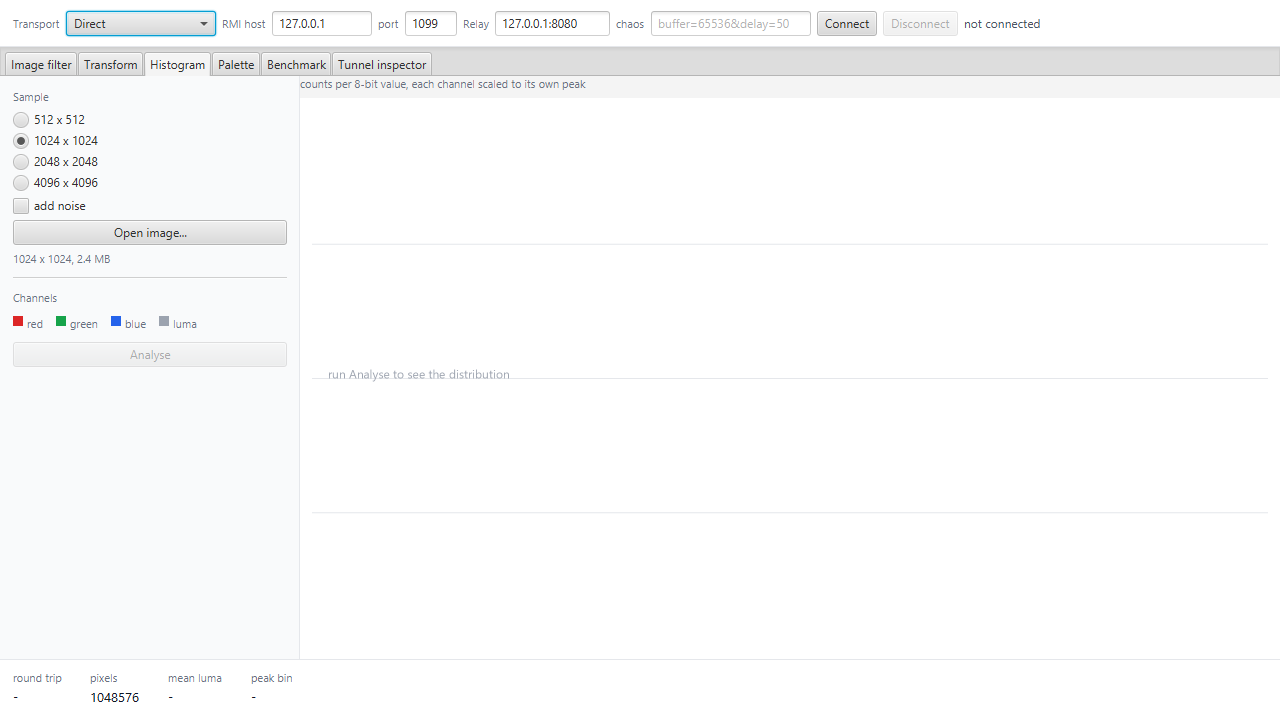
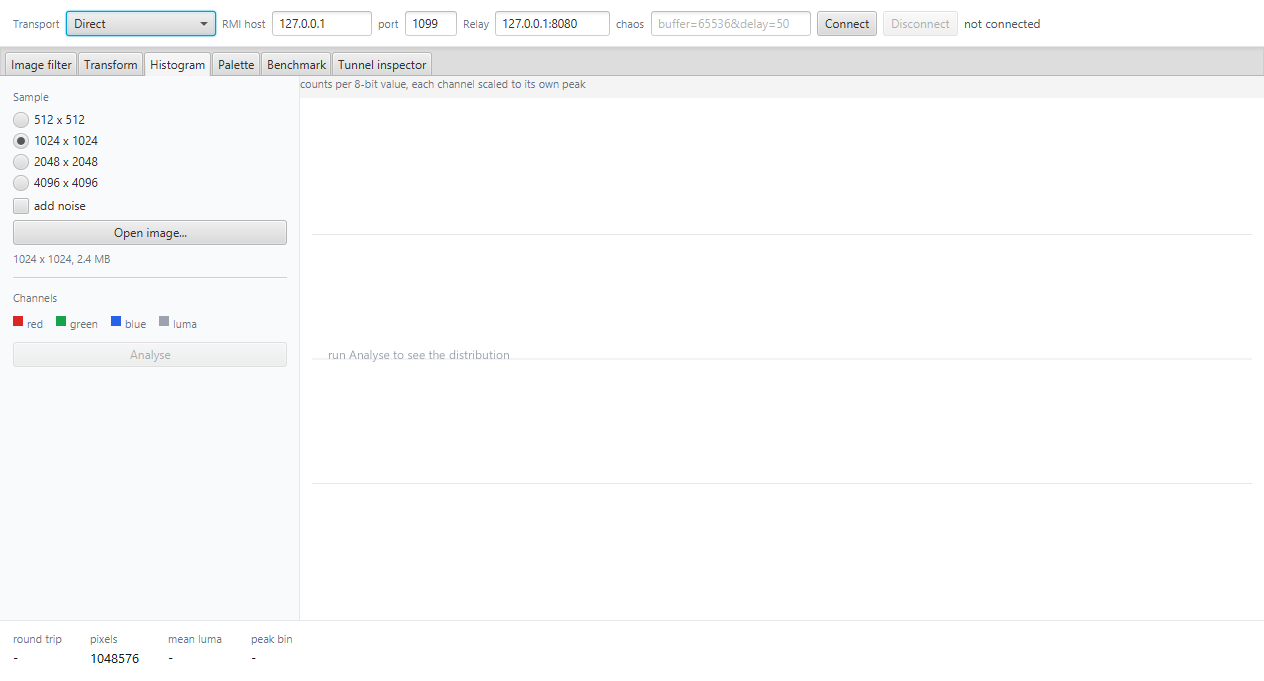
fix histogram canvas clipping; open the window no larger than the screen

diff --git a/src/main/java/lab/ui/LabApp.java b/src/main/java/lab/ui/LabApp.java
@@ -88,6 +88,22 @@ public class LabApp extends Application {
 
         stage.setTitle("RMI Tunnel Lab");
         stage.setScene(scene);
+        // Open no larger than the usable screen. At 150% scaling a 1280x720 window
+        // is wider than a 1920x1080 display in logical pixels, and the window
+        // manager then clips it rather than letting the layout shrink.
+        javafx.geometry.Rectangle2D screen = javafx.stage.Screen.getPrimary().getVisualBounds();
+        double winWidth = Math.min(1280, screen.getWidth() - 40);
+        double winHeight = Math.min(720, screen.getHeight() - 40);
+        String win = value(args, "--win");
+        if (win != null && win.contains("x")) {
+            String[] wh = win.split("x");
+            winWidth = Double.parseDouble(wh[0]);
+            winHeight = Double.parseDouble(wh[1]);
+        }
+        stage.setWidth(winWidth);
+        stage.setHeight(winHeight);
+        stage.setMinWidth(720);
+        stage.setMinHeight(480);
         stage.show();
 
         String shot = value(args, "--shot");

diff --git a/src/main/java/lab/ui/HistogramTool.java b/src/main/java/lab/ui/HistogramTool.java
@@ -108,6 +108,11 @@ final class HistogramTool implements Tool {
         StackPane holder = new StackPane(canvas);
         holder.setPadding(new Insets(12));
         holder.setStyle("-fx-background-color: #ffffff;");
+        // An unmanaged Canvas does not feed the StackPane's preferred size. Without
+        // this the bound width becomes the holder's minimum, so shrinking the window
+        // clipped the plot instead of reflowing it (and the canvas never redrew).
+        canvas.setManaged(false);
+        canvas.relocate(12, 12);
         canvas.widthProperty().bind(holder.widthProperty().subtract(24));
         canvas.heightProperty().bind(holder.heightProperty().subtract(24));
         canvas.widthProperty().addListener((o, a, b) -> draw());
